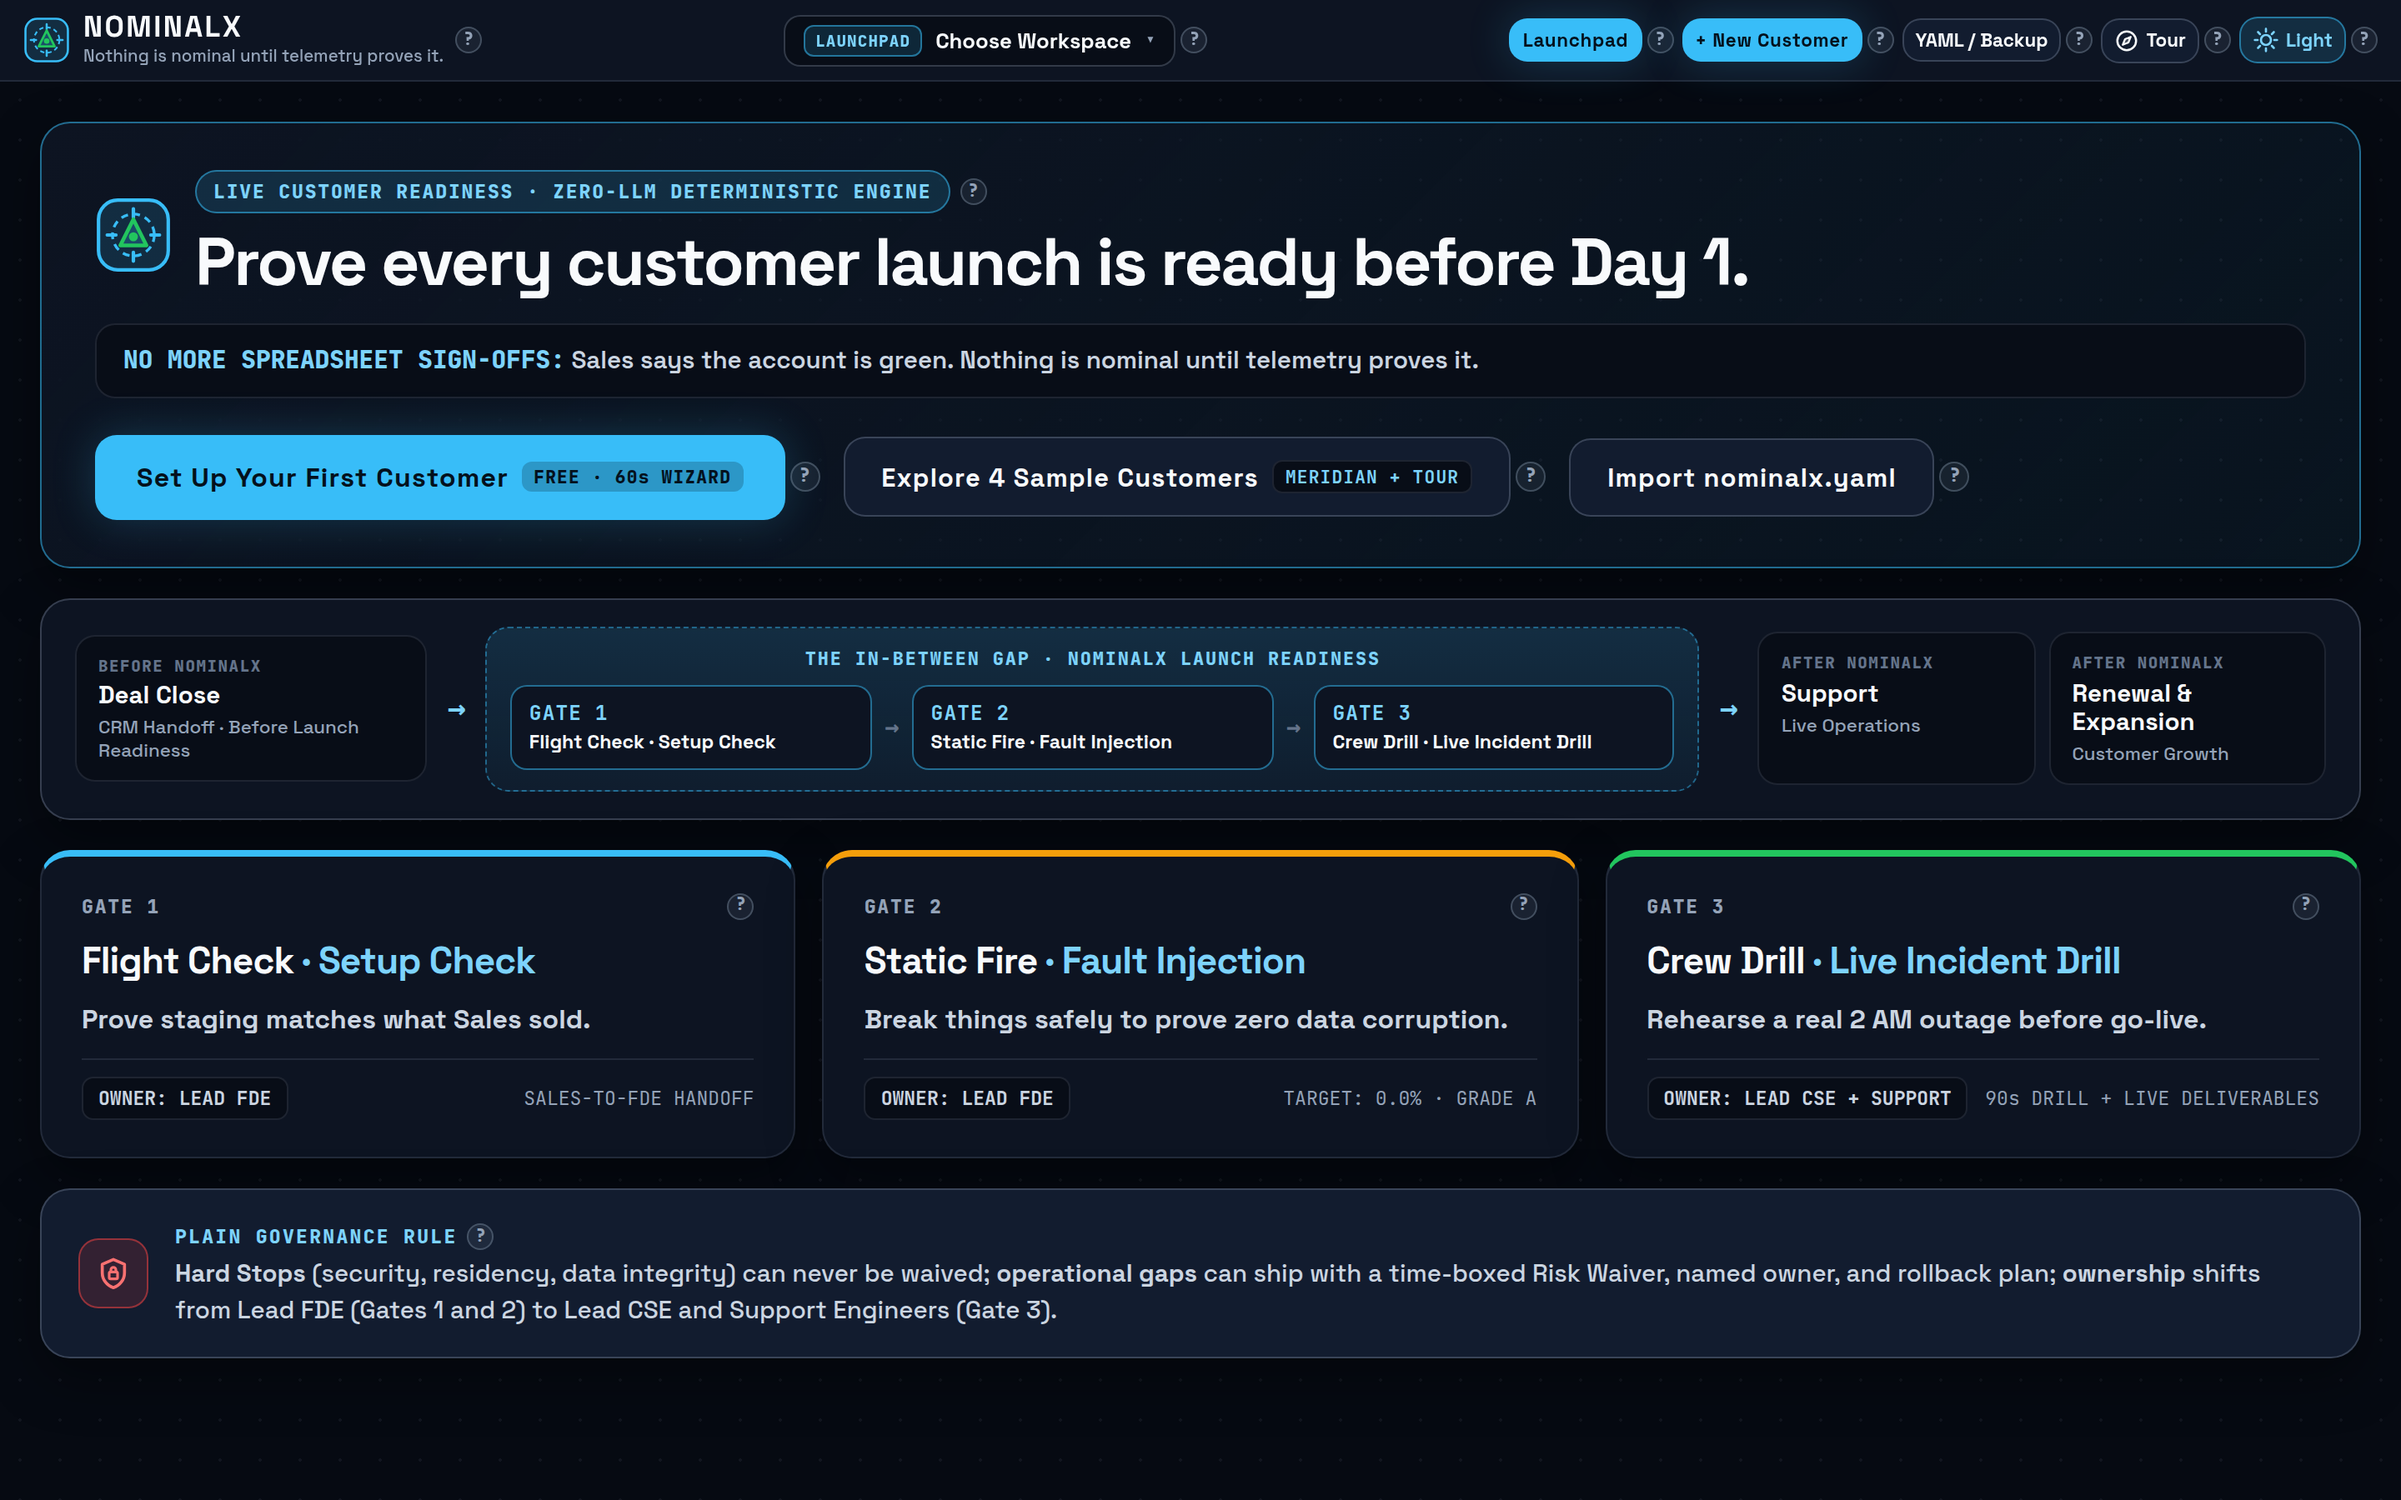
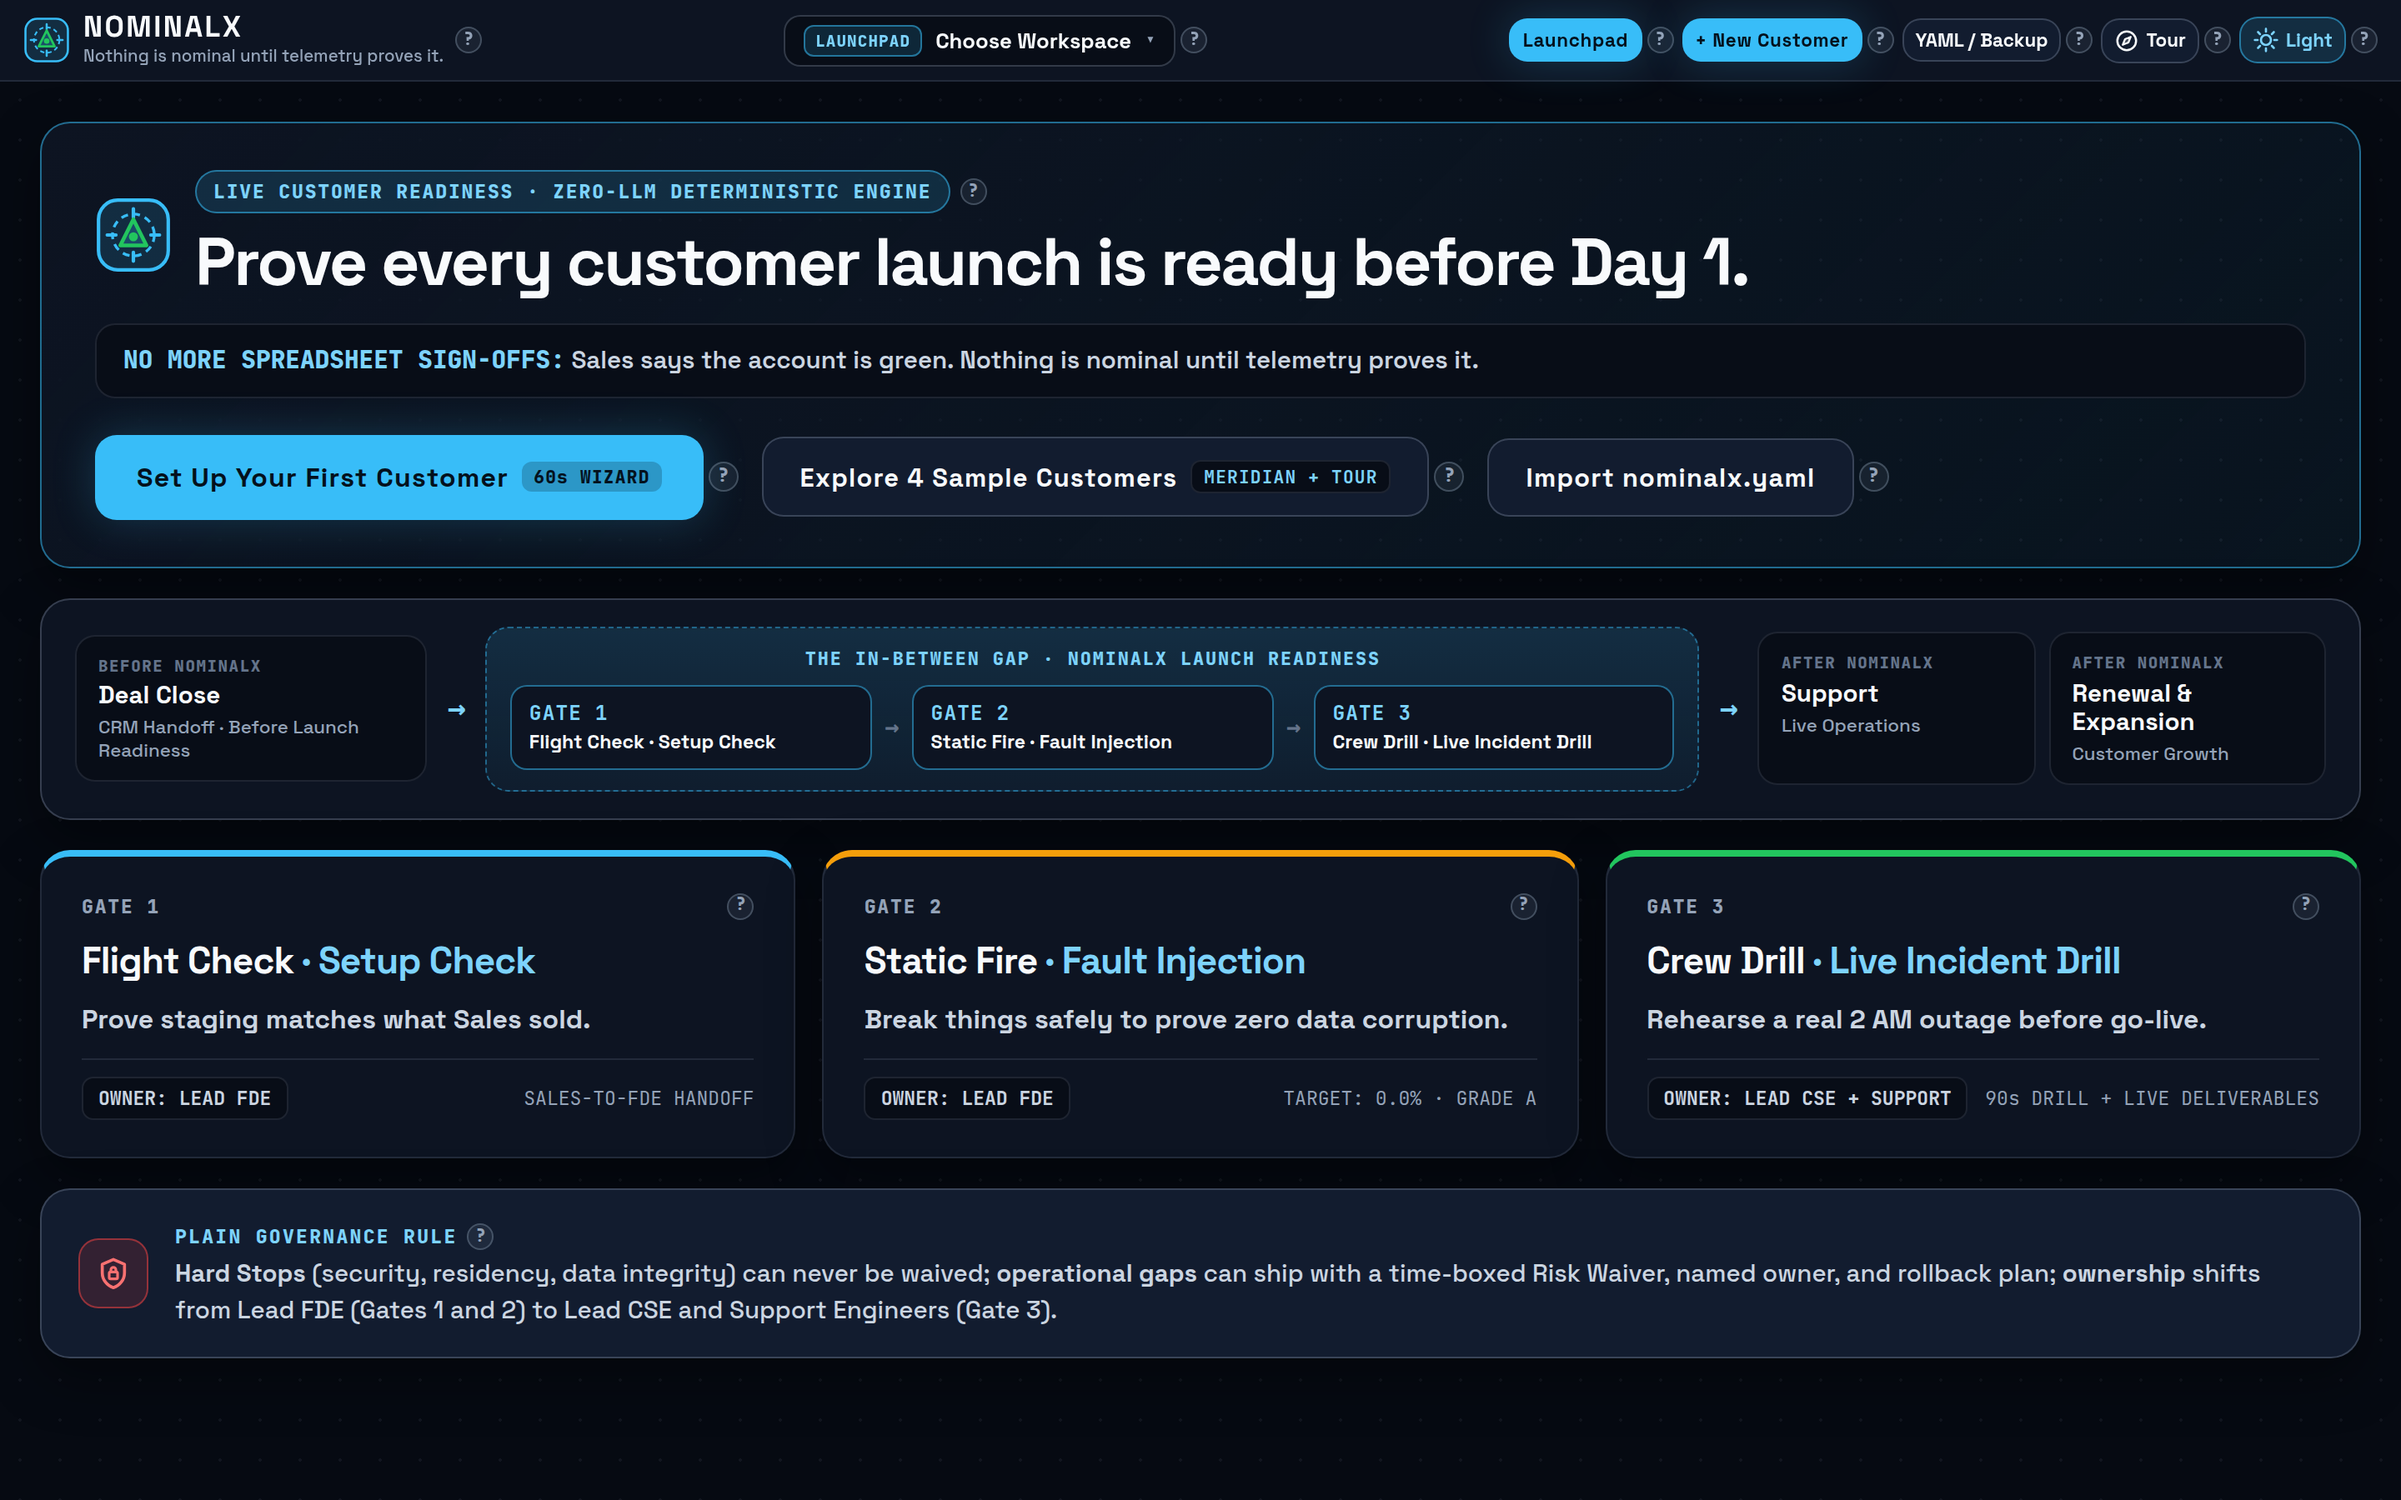
chore(web,docs): remove free/freemium marketing copy and refresh screenshots

Changed region(s): [[0.2188, 0.28, 0.8125, 0.3733]]

diff --git a/packages/web/src/data/helpCopy.ts b/packages/web/src/data/helpCopy.ts
@@ -56,7 +56,7 @@ export const HELP_COPY = {
   "header.newCustomer": {
     tag: "60s SETUP WIZARD",
     title: "Add a Real Customer Launch",
-    body: "Opens the free, deterministic 5-step Guided Setup Wizard for any B2B technical product (Multi-tenant SaaS, Dedicated VPC, or Self-Hosted). Saves your customer in browser localStorage under My Customers.",
+    body: "Opens the deterministic 5-step Guided Setup Wizard for any B2B technical product (Multi-tenant SaaS, Dedicated VPC, or Self-Hosted). Saves your customer in browser localStorage under My Customers.",
   },
   "header.exportImport": {
     tag: "PORTABLE FILES",
@@ -96,7 +96,7 @@ export const HELP_COPY = {
     body: "Security, residency, and data integrity Hard Stops can never be waived—they must pass to unlock launch. Operational gaps can ship temporarily with a time-boxed <=30d Risk Waiver, named owner, and rollback plan (max 2 active). Ownership shifts cleanly from Lead FDE (Gates 1–2) to Lead CSE and Support Engineers (Gate 3).",
   },
   "launchpad.action.setup": {
-    tag: "FREE · 60 SECONDS",
+    tag: "60 SECONDS",
     title: "Launch Guided Customer Setup Wizard",
     body: "Answer 4 short plain-language steps about deployment, compliance, data flows, and on-call SLAs. NominalX deterministically generates a tailored launch blueprint with a clear 'Why we added this' explanation on every item.",
   },

diff --git a/packages/web/src/components/CustomerSetupWizard.tsx b/packages/web/src/components/CustomerSetupWizard.tsx
@@ -453,7 +453,7 @@ export function CustomerSetupWizard({
               <span className="eyebrow" style={{ color: "var(--active-text)" }}>
                 {editingCustomerId
                   ? "EDIT CUSTOMER BLUEPRINT · DETERMINISTIC ZERO-LLM ENGINE"
-                  : "GUIDED CUSTOMER SETUP WIZARD · FREE · 60 SECONDS · ZERO-LLM"}
+                  : "GUIDED CUSTOMER SETUP WIZARD · 60 SECONDS · ZERO-LLM"}
               </span>
               <HelpTip copyKey="wizard.header" />
             </div>
@@ -1239,7 +1239,7 @@ export function CustomerSetupWizard({
               </button>
             ) : (
               <span className="mono" style={{ fontSize: "0.72rem", color: "var(--text-muted)" }}>
-                SAVES FREE IN BROWSER LOCALSTORAGE
+                SAVES IN BROWSER LOCALSTORAGE
               </span>
             )}
           </div>

diff --git a/packages/web/src/components/TopMissionBar.tsx b/packages/web/src/components/TopMissionBar.tsx
@@ -196,7 +196,7 @@ export function TopMissionBar({
                 {myCustomers.length === 0 ? (
                   <div className="workspace-empty-mini">
                     <div style={{ fontSize: "0.78rem", color: "var(--text-muted)" }}>
-                      No custom customers yet. Create one free in 60s or import{" "}
+                      No custom customers yet. Create one in 60s or import{" "}
                       <code className="mono">nominalx.yaml</code>.
                     </div>
                     <div style={{ display: "flex", gap: 6, marginTop: 8, flexWrap: "wrap" }}>

diff --git a/packages/web/src/components/FirstRunLaunchpad.tsx b/packages/web/src/components/FirstRunLaunchpad.tsx
@@ -70,7 +70,7 @@ export function FirstRunLaunchpad({
                   ? "+ Add Another Customer"
                   : "Set Up Your First Customer"}
               </span>
-              <span className="launchpad-cta-sub mono">FREE · 60s WIZARD</span>
+              <span className="launchpad-cta-sub mono">60s WIZARD</span>
             </button>
             <HelpTip copyKey="launchpad.action.setup" size="md" />
           </div>

diff --git a/README.md b/README.md
@@ -28,9 +28,9 @@ Most customer software lives at the two bookends of the lifecycle: pre-sales CRM
 
 ---
 
-## Free Browser Workspace & First-Run Experience (`https://nominalx.vercel.app`)
+## Browser Workspace & First-Run Experience (`https://nominalx.vercel.app`)
 
-Open **[https://nominalx.vercel.app](https://nominalx.vercel.app)** to run NominalX with zero backend, zero sign-up, and zero LLM guesswork (Dark mode default with 1-click Light toggle, Option C big bold blocks, and thorough `?` contextual help tooltips across every screen and control):
+Open **[https://nominalx.vercel.app](https://nominalx.vercel.app)** to run NominalX with zero backend and zero LLM guesswork (Dark mode default with 1-click Light toggle, Option C big bold blocks, and thorough `?` contextual help tooltips across every screen and control):
 
 - **First-Run Launchpad & Smart Returning-Visitor Routing:** Brand-new visitors (zero customers saved in `My Customers`) land on a clean, 20-second **First-Run Launchpad** explaining all three gates, the plain governance rule (Hard Stops vs. time-boxed Risk Waivers vs. Lead FDE → Lead CSE ownership transfer), and three clear entry actions: **Set Up Your First Customer**, **Explore 4 Sample Customers**, or **Import `nominalx.yaml`**. Returning visitors who have created at least one customer open straight into their most recently active customer automatically, while **`Launchpad`** and **`+ New Customer`** remain always visible in the top mission bar.
 

diff --git a/THESIS.md b/THESIS.md
@@ -55,4 +55,4 @@ Most customer-facing software lives at the two bookends of the lifecycle: pre-sa
 ## Dual Delivery (One Engine, Two Surfaces)
 
 1. **Real CLI (`nominalx`):** Runs real deterministic HTTP, TLS, residency, webhook HMAC, and adversarial chaos probes against any staging endpoint (`nominalx check nominalx.yaml`, `nominalx fire --url ...`, `nominalx dossier`). Zero LLM dependency.
-2. **Static Browser Mission Control:** Zero-backend avionics cockpit (hosted free on GitHub Pages) pre-loaded with 4 realistic enterprise accounts (*Meridian FinTech*, *Kestrel Health*, *Vanguard Retail*, *Helios Logistics*) so anyone can run Flight Check → Static Fire → Crew Drill → Signed Dossier in 90 seconds.
+2. **Static Browser Mission Control:** Zero-backend avionics cockpit (hosted on Vercel) pre-loaded with 4 realistic enterprise accounts (*Meridian FinTech*, *Kestrel Health*, *Vanguard Retail*, *Helios Logistics*) so anyone can run Flight Check → Static Fire → Crew Drill → Signed Dossier in 90 seconds.
